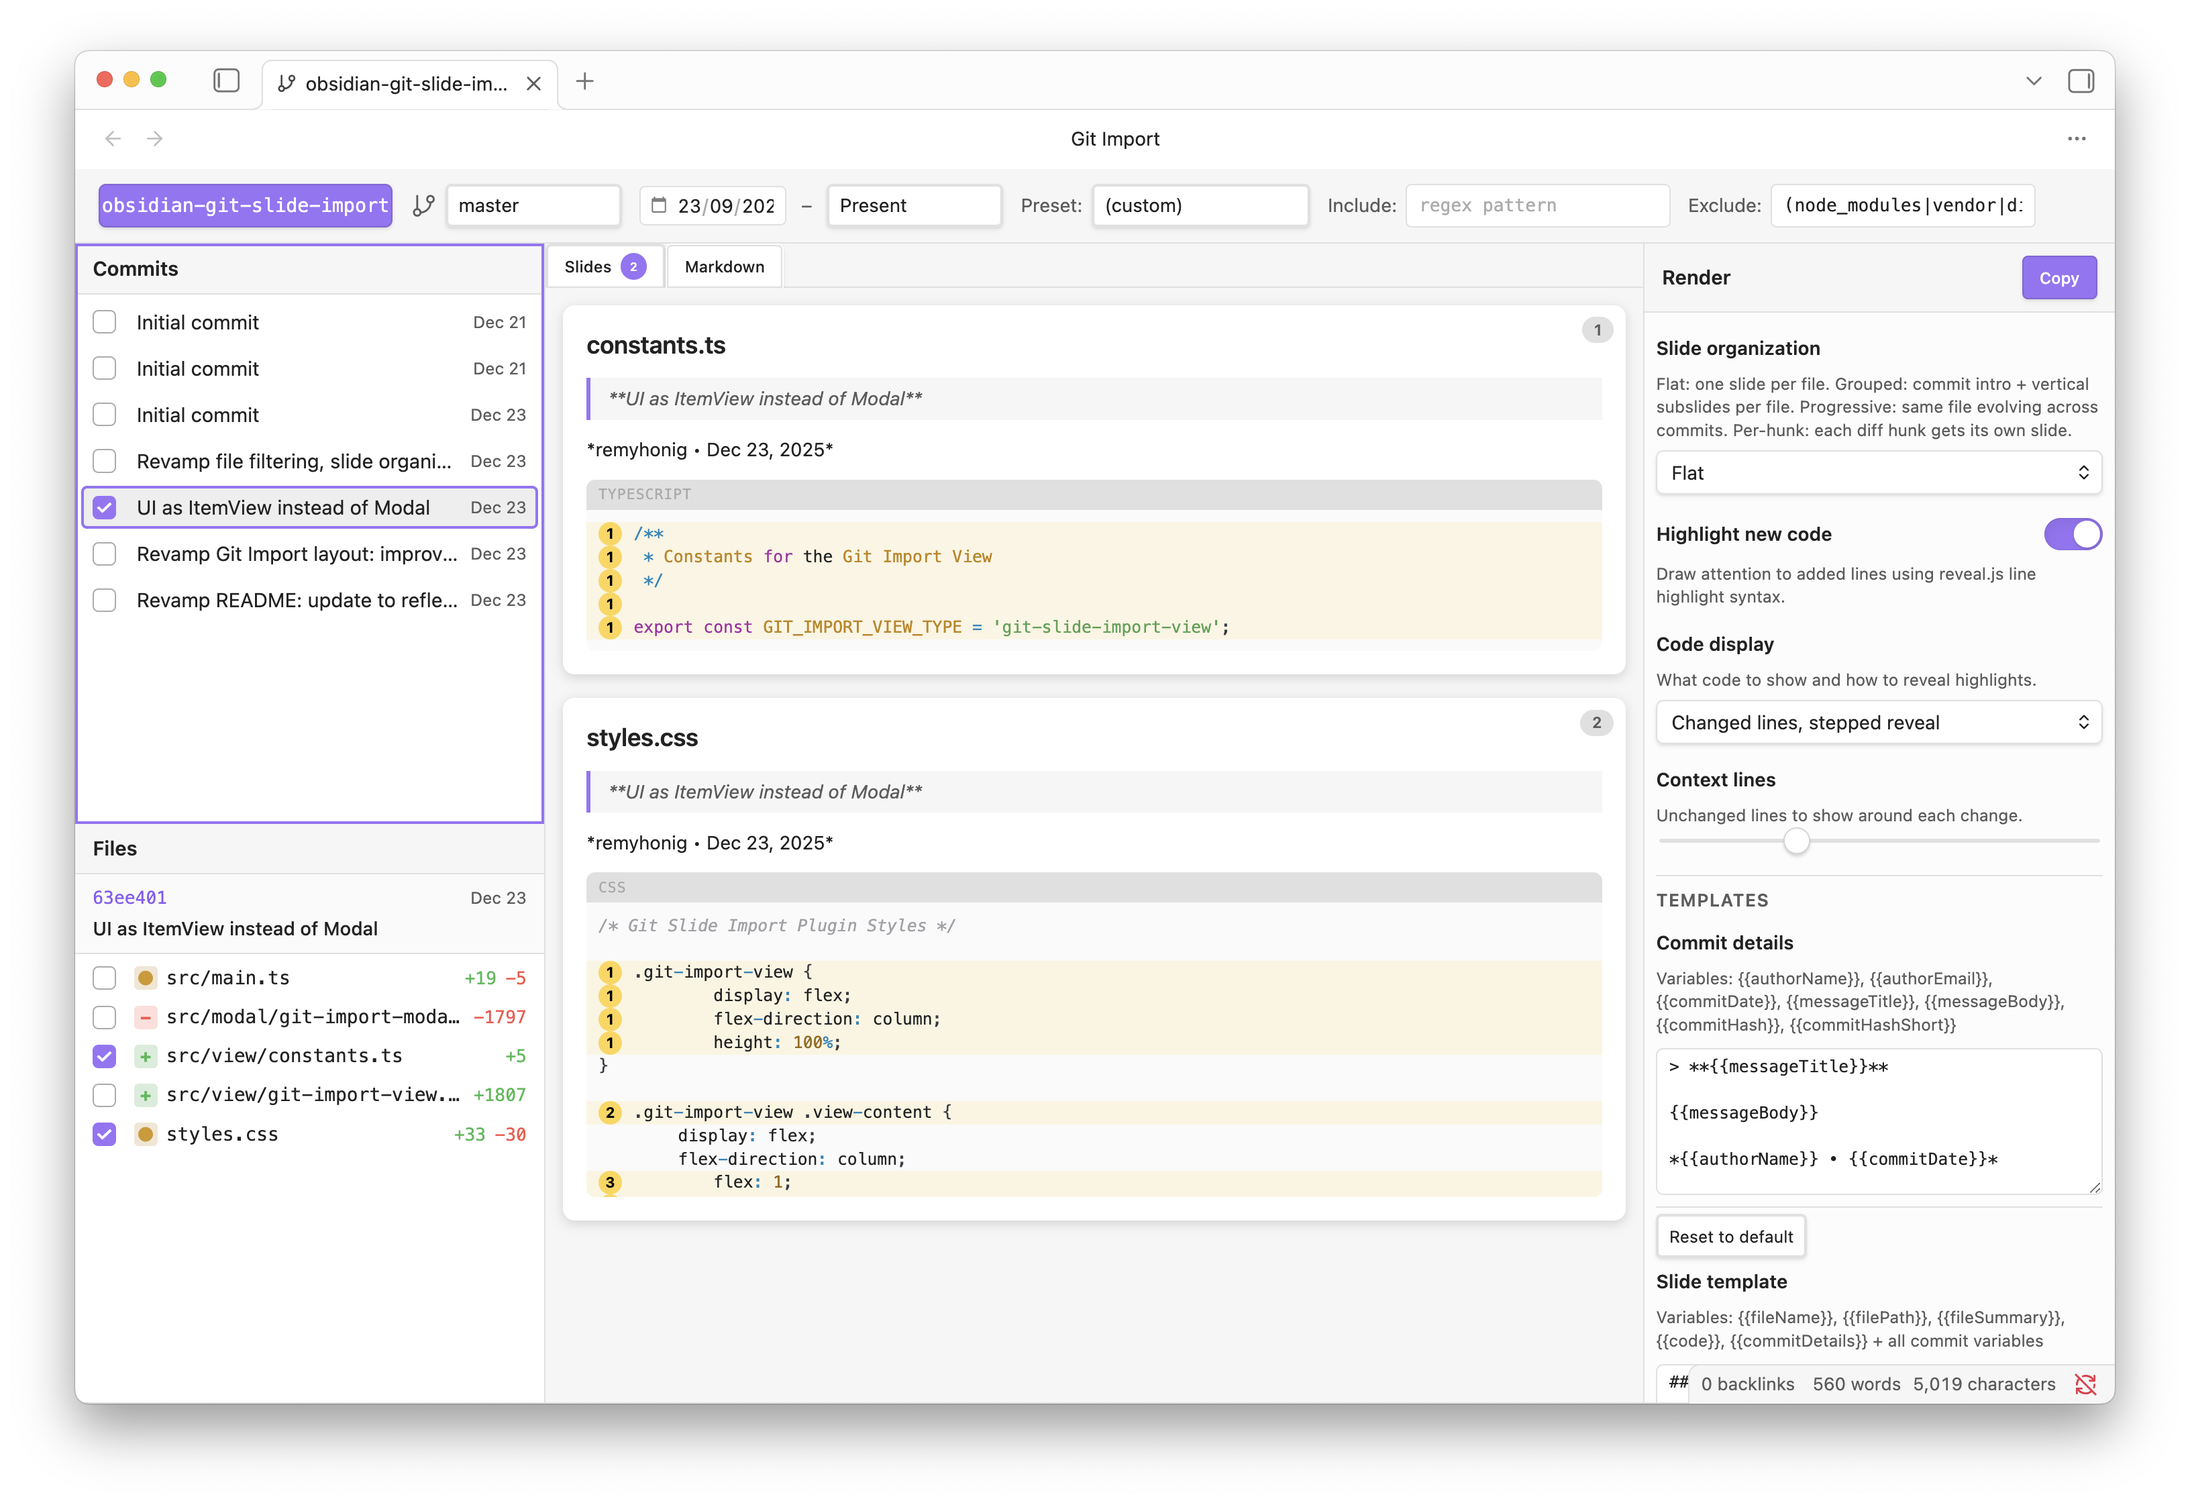
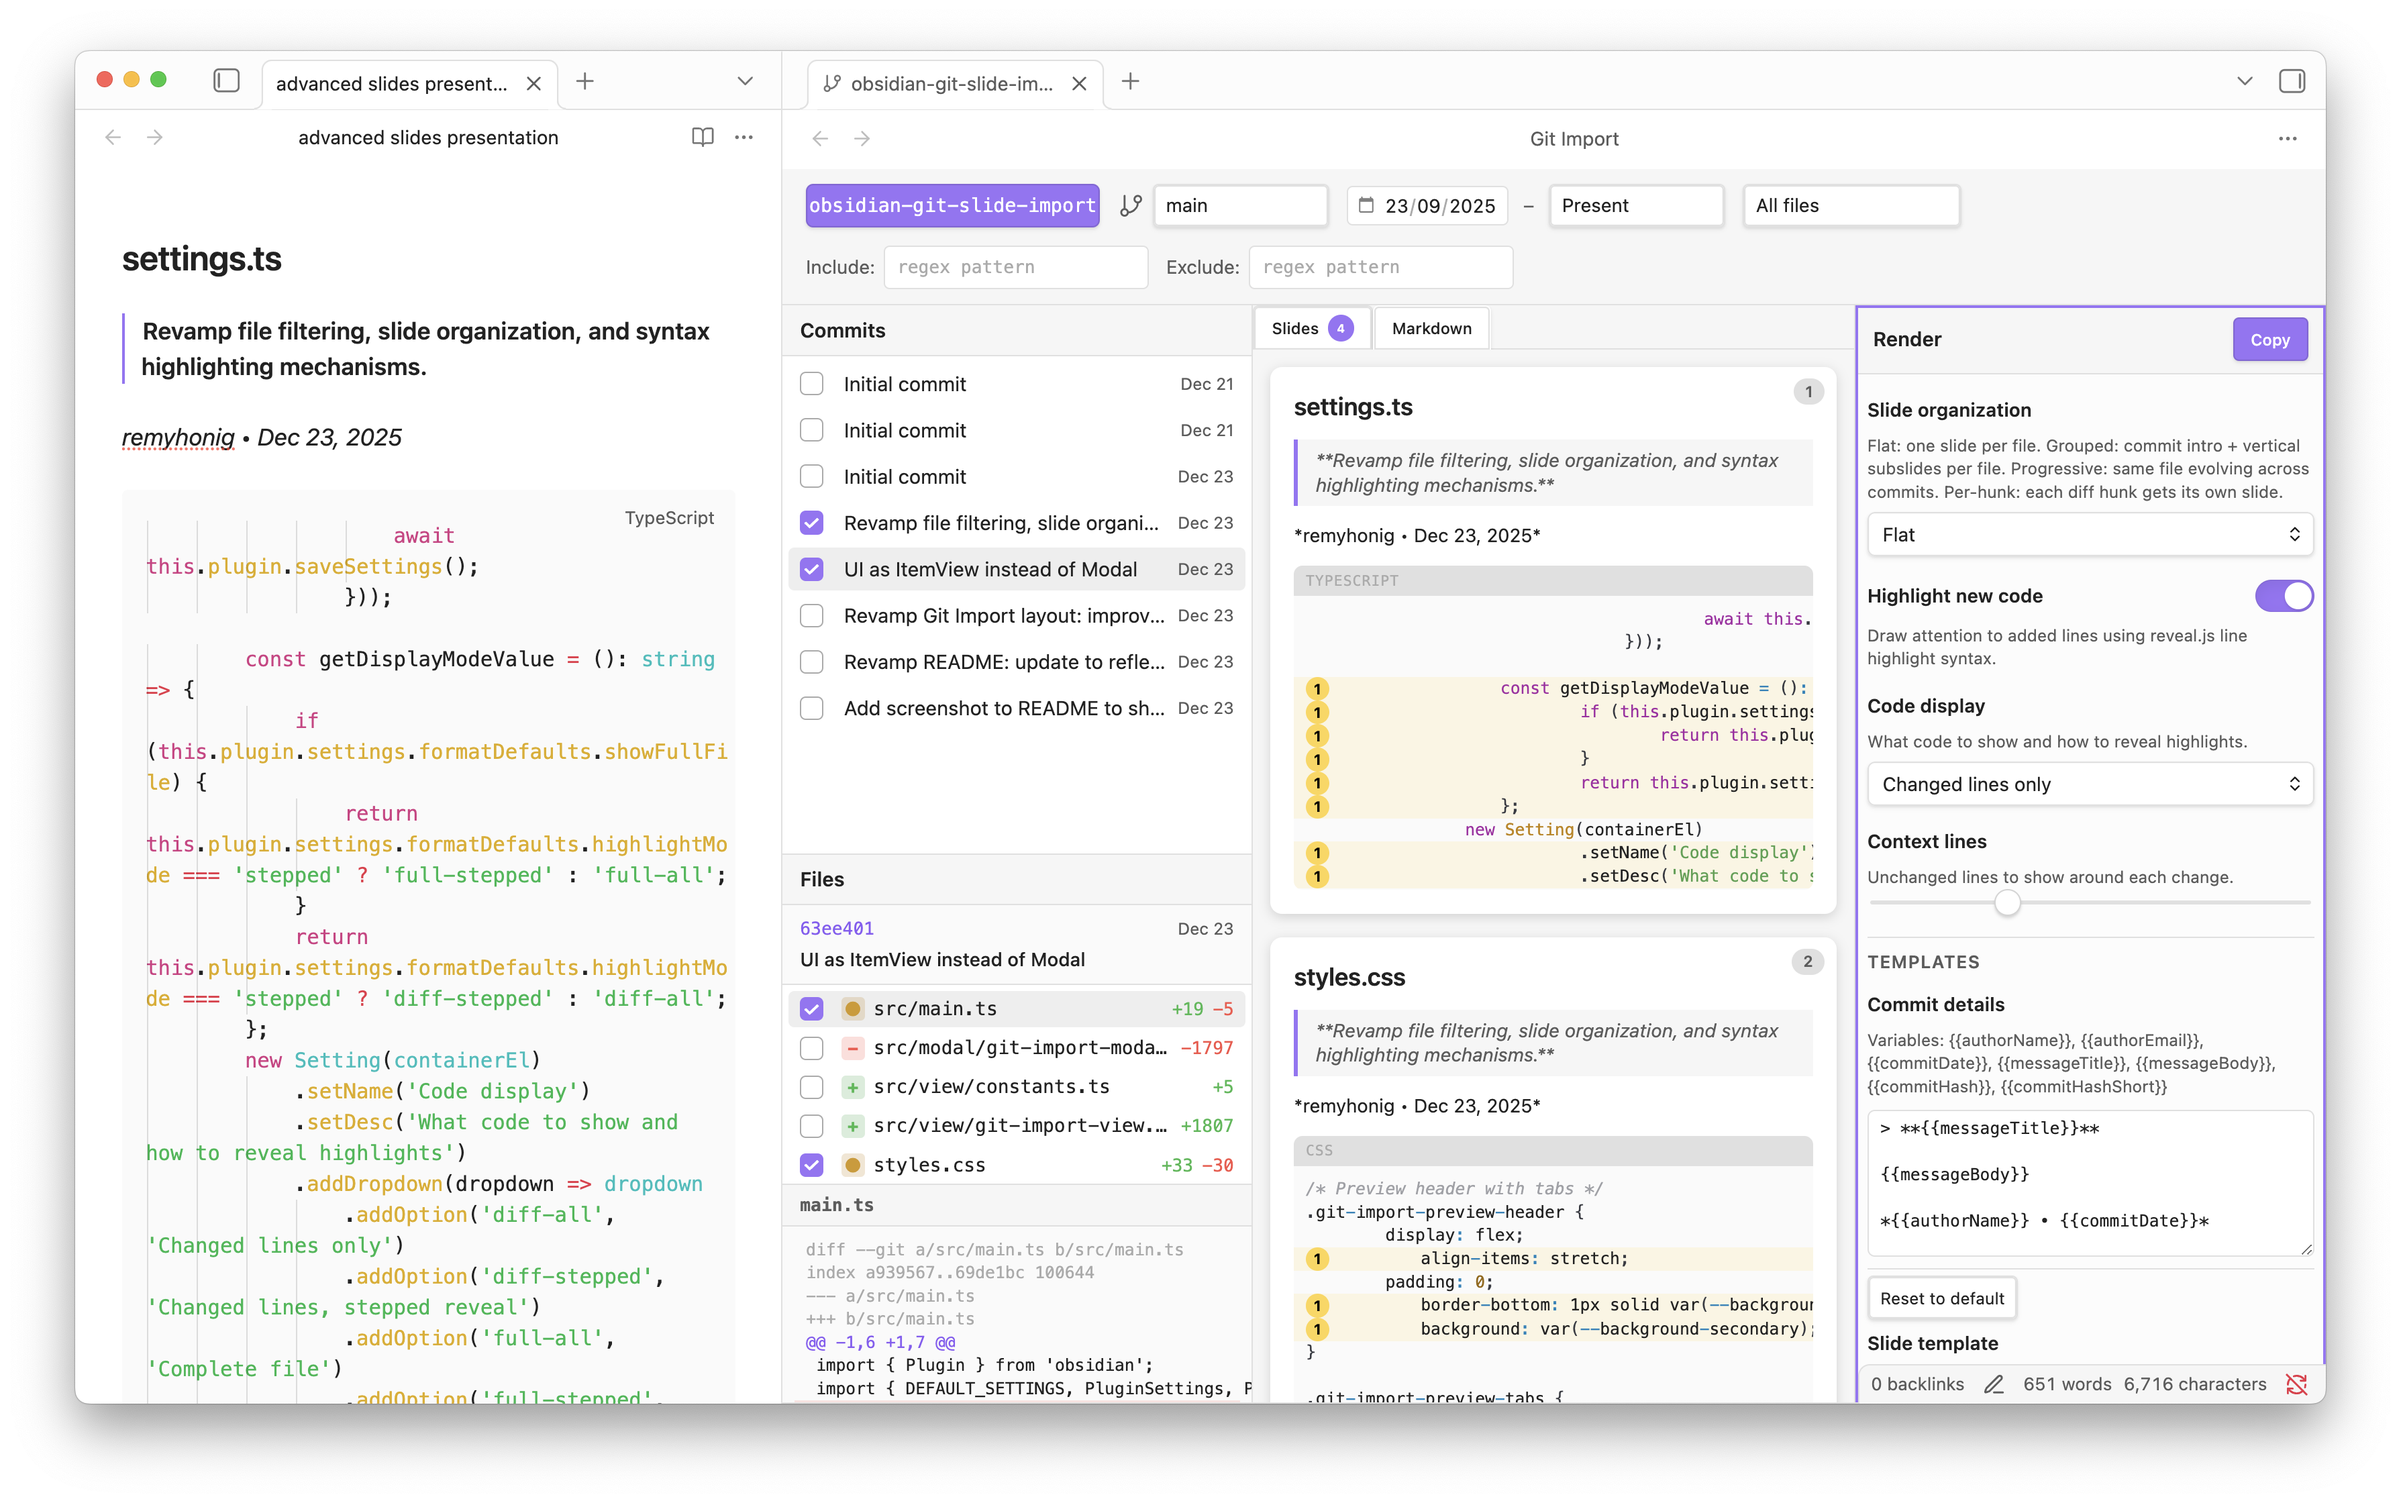
Enhance empty state handling: add reusable renderEmptyState method, update UI presets, and improve default branch selection logic. Adjust styles for empty states and date inputs for better clarity.

diff --git a/src/view/git-import-view.ts b/src/view/git-import-view.ts
@@ -42,6 +42,11 @@ interface FilterPreset {
 
 const FILTER_PRESETS: FilterPreset[] = [
 	{
+		name: 'All files',
+		include: '',
+		exclude: ''
+	},
+	{
 		name: 'JavaScript/TypeScript',
 		include: '\\.(ts|js|tsx|jsx|mjs|cjs|json|yaml|yml)$',
 		exclude: '(node_modules|dist|build|\\.min\\.|package-lock\\.json|yarn\\.lock|pnpm-lock\\.yaml)$'
@@ -125,8 +130,9 @@ export class GitImportView extends ItemView {
 	}
 
 	// File filter patterns
+	// Default to "All files" preset (no filters)
 	private includePattern = '';
-	private excludePattern = '(node_modules|vendor|dist|build|\\.min\\.|package-lock\\.json|composer\\.lock|yarn\\.lock|pnpm-lock\\.yaml|Cargo\\.lock|Gemfile\\.lock|poetry\\.lock)$';
+	private excludePattern = '';
 
 	// Keyboard navigation state
 	private focusedColumn: FocusedColumn = 'commits';
@@ -424,6 +430,14 @@ export class GitImportView extends ItemView {
 		this.markdownPreviewEl?.removeClass('is-hidden');
 	}
 
+	private renderEmptyState(container: HTMLElement, icon: string, message: string): void {
+		container.empty();
+		const emptyState = container.createDiv({ cls: 'git-import-empty-state' });
+		const iconEl = emptyState.createDiv({ cls: 'git-import-empty-icon' });
+		setIcon(iconEl, icon);
+		emptyState.createDiv({ cls: 'git-import-empty-message', text: message });
+	}
+
 	private updateFocusHighlight(): void {
 		// Remove all focus highlights from list items
 		this.commitListEl?.querySelectorAll('.git-import-commit').forEach(el => {
@@ -539,11 +553,10 @@ export class GitImportView extends ItemView {
 
 		// Preset selector
 		const presetGroup = section.createDiv({ cls: 'git-import-filter-group' });
-		presetGroup.createEl('label', { text: 'Preset:' });
 		const presetSelect = presetGroup.createEl('select');
-		presetSelect.createEl('option', { text: '(custom)', value: '' });
 		for (const preset of FILTER_PRESETS) {
-			presetSelect.createEl('option', { text: preset.name, value: preset.name });
+			const opt = presetSelect.createEl('option', { text: preset.name, value: preset.name });
+			if (preset.name === 'All files') opt.selected = true;
 		}
 		presetSelect.addEventListener('change', () => {
 			const preset = FILTER_PRESETS.find(p => p.name === presetSelect.value);
@@ -607,7 +620,7 @@ export class GitImportView extends ItemView {
 		this.commitPanelEl.createDiv({ cls: 'git-import-panel-header', text: 'Commits' });
 		this.commitListEl = this.commitPanelEl.createDiv({ cls: 'git-import-panel-content' });
 		this.commitListEl.setAttribute('tabindex', '0');
-		this.commitListEl.setText('Select a repository to see commits');
+		this.renderEmptyState(this.commitListEl, 'folder-open', 'Select a repository');
 
 		// Files section (bottom half)
 		this.filePanelEl = this.selectionPanelEl.createDiv({ cls: 'git-import-section git-import-section-files' });
@@ -617,7 +630,7 @@ export class GitImportView extends ItemView {
 		// File list area
 		this.fileListEl = this.filePanelEl.createDiv({ cls: 'git-import-panel-content git-import-file-list' });
 		this.fileListEl.setAttribute('tabindex', '0');
-		this.fileListEl.setText('Select a commit to see files');
+		this.renderEmptyState(this.fileListEl, 'git-commit', 'Select a commit');
 		// Diff preview area at bottom
 		this.fileDiffPreviewEl = this.filePanelEl.createDiv({ cls: 'git-import-file-diff is-hidden' });
 		this.fileDiffPreviewEl.createDiv({ cls: 'git-import-file-diff-header', text: 'Diff' });
@@ -654,11 +667,11 @@ export class GitImportView extends ItemView {
 
 		// Slides preview (visual)
 		this.slidesPreviewEl = this.previewEl.createDiv({ cls: 'git-import-slides-preview' });
-		this.slidesPreviewEl.setText('Select commits and files to see preview');
+		this.renderEmptyState(this.slidesPreviewEl, 'presentation', 'Select commits and files');
 
 		// Markdown preview (raw code)
 		this.markdownPreviewEl = this.previewEl.createDiv({ cls: 'git-import-markdown-preview is-hidden' });
-		this.markdownPreviewEl.setText('Select commits and files to see preview');
+		this.renderEmptyState(this.markdownPreviewEl, 'code', 'Select commits and files');
 
 		// Column 3: Render (settings + copy button)
 		this.renderPanelEl = panels.createDiv({ cls: 'git-import-panel git-import-panel-render' });
@@ -884,8 +897,7 @@ export class GitImportView extends ItemView {
 
 		// Clear UI panels
 		if (this.fileListEl) {
-			this.fileListEl.empty();
-			this.fileListEl.setText('Select a commit to see files');
+			this.renderEmptyState(this.fileListEl, 'git-commit', 'Select a commit');
 		}
 		if (this.fileCommitMessageEl) {
 			this.fileCommitMessageEl.empty();
@@ -893,12 +905,10 @@ export class GitImportView extends ItemView {
 		}
 		this.hideDiffPreview();
 		if (this.slidesPreviewEl) {
-			this.slidesPreviewEl.empty();
-			this.slidesPreviewEl.setText('Select commits and files to see preview');
+			this.renderEmptyState(this.slidesPreviewEl, 'presentation', 'Select commits and files');
 		}
 		if (this.markdownPreviewEl) {
-			this.markdownPreviewEl.empty();
-			this.markdownPreviewEl.setText('Select commits and files to see preview');
+			this.renderEmptyState(this.markdownPreviewEl, 'code', 'Select commits and files');
 		}
 		this.updateImportButton();
 
@@ -931,7 +941,11 @@ export class GitImportView extends ItemView {
 
 		try {
 			this.branches = await this.gitService.getLocalBranches();
-			const currentBranch = await this.gitService.getCurrentBranch();
+
+			// Prefer main/master, fall back to current branch
+			const defaultBranch = this.branches.find(b => b === 'main')
+				?? this.branches.find(b => b === 'master')
+				?? await this.gitService.getCurrentBranch();
 
 			this.branchSelectEl.empty();
 
@@ -939,7 +953,7 @@ export class GitImportView extends ItemView {
 				text: '(all branches)',
 				value: ''
 			});
-			if (!this.filter.branch) {
+			if (!this.filter.branch && !defaultBranch) {
 				allOption.selected = true;
 			}
 
@@ -948,7 +962,7 @@ export class GitImportView extends ItemView {
 					text: branch,
 					value: branch
 				});
-				if (branch === currentBranch && !this.filter.branch) {
+				if (branch === defaultBranch && !this.filter.branch) {
 					option.selected = true;
 					this.filter.branch = branch;
 				}
@@ -1264,10 +1278,8 @@ export class GitImportView extends ItemView {
 		}
 
 		if (selectedCommits.length === 0 || !hasFiles) {
-			this.slidesPreviewEl.empty();
-			this.slidesPreviewEl.setText('Select commits and files to see preview');
-			this.markdownPreviewEl.empty();
-			this.markdownPreviewEl.setText('Select commits and files to see preview');
+			this.renderEmptyState(this.slidesPreviewEl, 'presentation', 'Select commits and files');
+			this.renderEmptyState(this.markdownPreviewEl, 'code', 'Select commits and files');
 			this.updateSlideCountBadge(0);
 			return;
 		}

diff --git a/styles.css b/styles.css
@@ -71,9 +71,9 @@
 	width: 180px;
 }
 
-/* Date input styling */
-.git-import-date-input {
-	width: 145px;
+/* Date input styling - override general input width */
+.git-import-view .git-import-date-input {
+	width: 110px !important;
 }
 
 /* Branch icon */
@@ -174,6 +174,32 @@
 	display: flex;
 	justify-content: space-between;
 	align-items: center;
+}
+
+/* Empty state styling */
+.git-import-empty-state {
+	display: flex;
+	flex-direction: column;
+	align-items: center;
+	justify-content: center;
+	height: 100%;
+	padding: 24px;
+	text-align: center;
+	color: var(--text-muted);
+}
+
+.git-import-empty-icon {
+	margin-bottom: 12px;
+	opacity: 0.5;
+}
+
+.git-import-empty-icon svg {
+	width: 32px;
+	height: 32px;
+}
+
+.git-import-empty-message {
+	font-size: 0.9em;
 }
 
 .git-import-panel-header {
